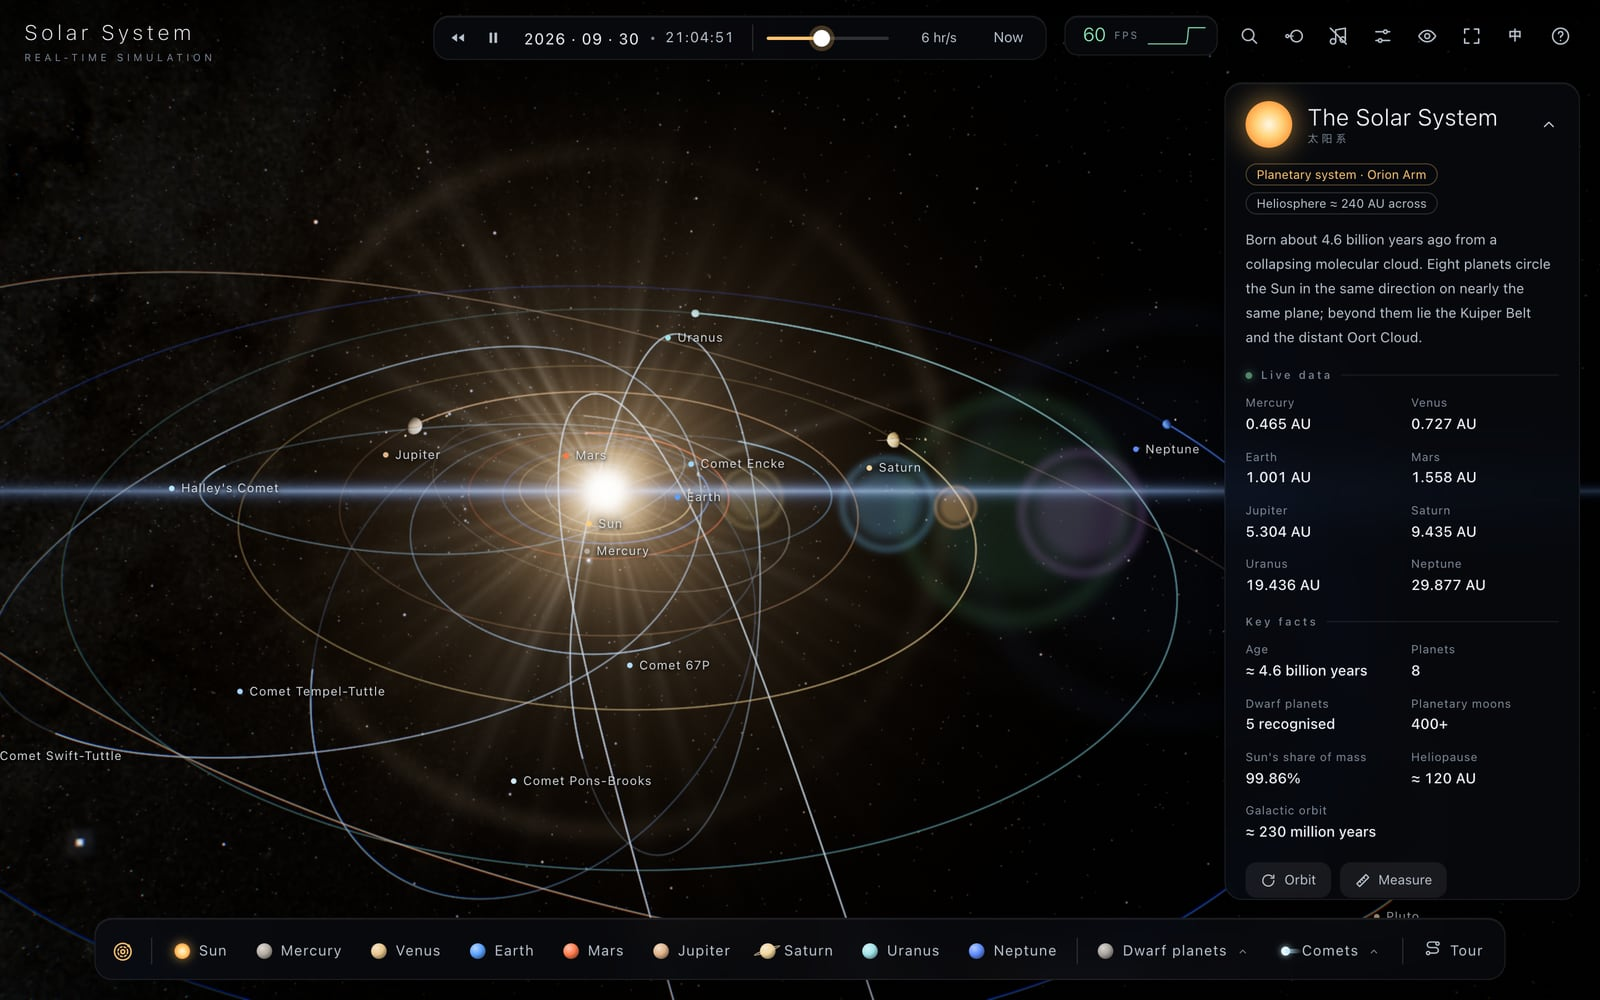
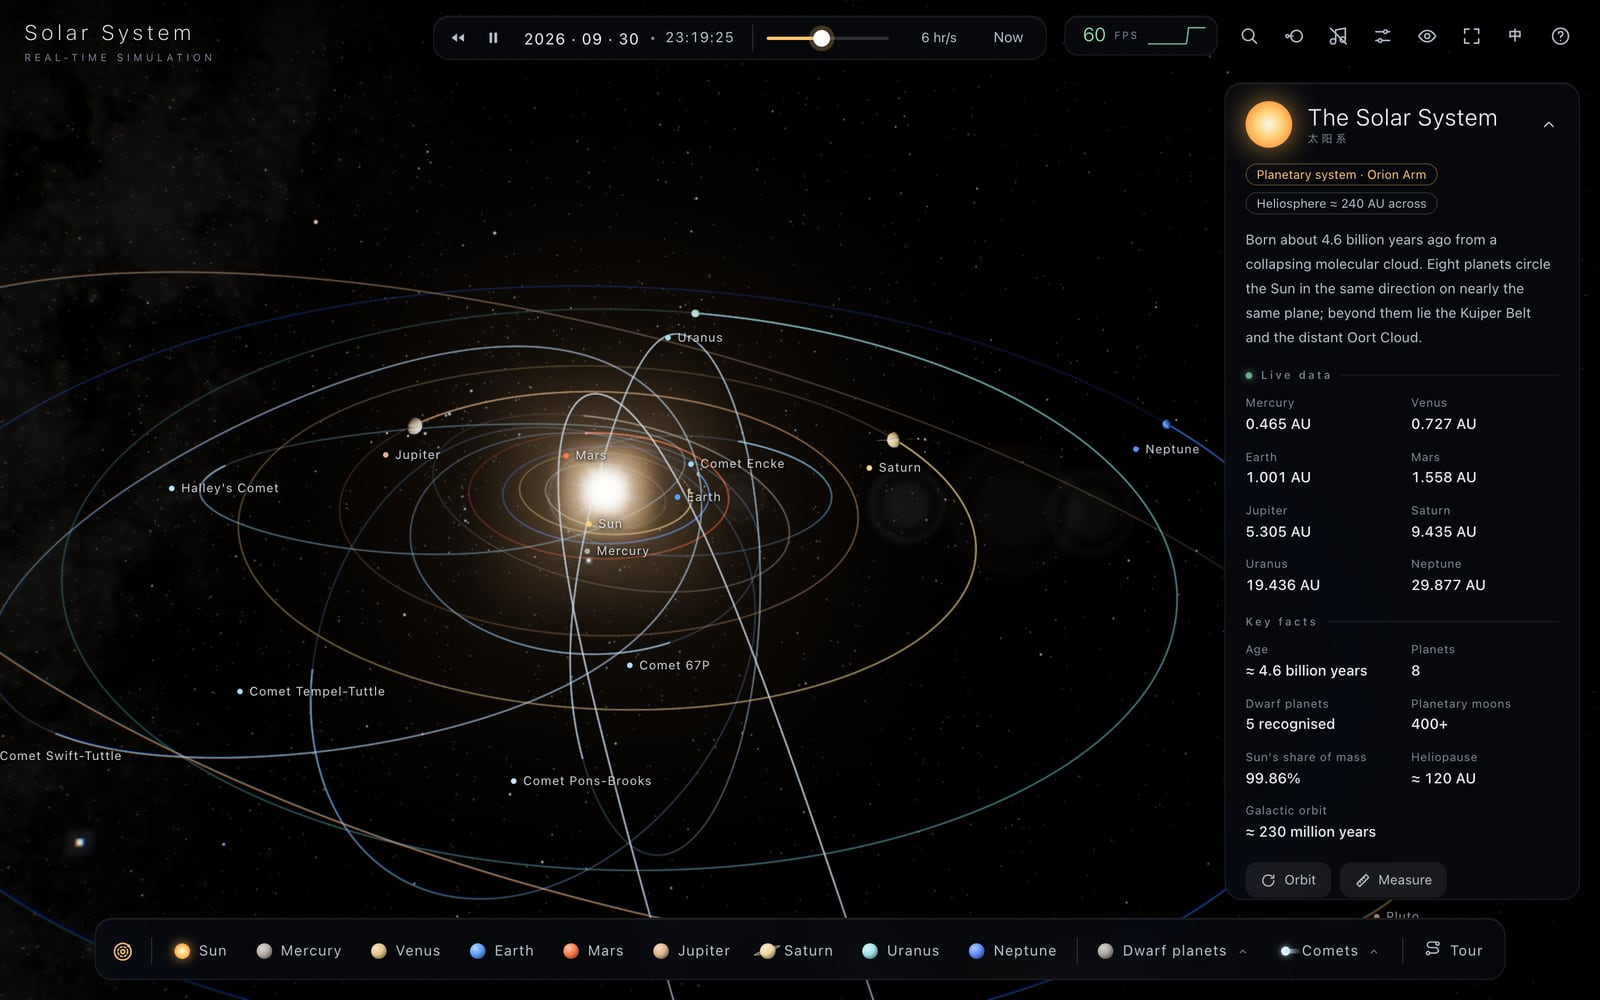
银河去颗粒（7×7 中值，0.9 MB）并加暗部趾部曲线与亮度滑块；镜头光晕去掉横向光条、噪声尖刺与大光圈，改为淡鬼影加平滑眩光；体积光只在太阳被遮挡时满强度

diff --git a/src/shaders.js b/src/shaders.js
@@ -499,8 +499,9 @@ vec3 e=vec3(p.x,-p.z,p.y);const float eps=.40909280;
 vec3 q=vec3(e.x,e.y*cos(eps)-e.z*sin(eps),e.y*sin(eps)+e.z*cos(eps));
 vec2 uv=vec2(fract(.5-atan(q.y,q.x)/6.2831853),.5+asin(clamp(q.z,-1.,1.))/3.14159265);
 vec3 c=textureLod(uSky,uv,0.).rgb;c=c*c*c*.25;
-// 黑点：减去弥漫的暗弱背景（约为全天中位亮度），深空回到纯黑，银河本身略提亮
-gl_FragColor=vec4(max(c-.0024,0.)*1.35*uGain,1.);}`;
+// 暗部趾部：全天中位亮度（约 0.0027）附近的弥漫薄雾平滑淡出到黑，否则远离银道的灰褐色斑驳显得脏；银河本身保留
+c*=smoothstep(.0022,.012,dot(c,vec3(.2126,.7152,.0722)));
+gl_FragColor=vec4(c*1.2*uGain,1.);}`;
 
 export const STAR_VERT = /* glsl */ `
 attribute float aI;attribute vec3 aColor;uniform float uPR,uGain;varying vec3 vCol;
@@ -589,18 +590,19 @@ const mat3 OM=mat3(1.60475,-.10208,-.00327,-.53108,1.10813,-.07276,-.07367,-.006
 // 场景 + 泛光（半分辨率泛光纹理线性采样，rgb·a 即原先加法混合的结果）
 vec3 src(vec2 uv){vec4 b=texture(tBloom,uv);return texture(tDiffuse,uv).rgb+b.rgb*(b.a*uBloom);}
 vec3 aces(vec3 v){v=IM*v;vec3 a=v*(v+.0245786)-.000090537,b=v*(.983729*v+.432951)+.238081;return clamp(OM*(a/b),0.,1.);}
+// 镜头光晕：只保留真实镜头里常见且克制的部分
+// · 鬼影：镜片间内反射，沿太阳—画面中心连线分布，小、淡、偏中性色
+// · 眩光：镜头内散射形成的平滑光晕（近似洛伦兹型点扩散函数），没有放射尖刺
+// 此前的横向蓝色光条（模仿变形宽银幕镜头）、噪声放射线与大光圈都显得假，已去掉
 vec3 flare(vec2 uv){
   vec2 as=vec2(uAspect,1.),p=(uv-.5)*as,s=(uSun-.5)*as;
   vec3 c=vec3(0.);
-  vec3 G[6]=vec3[](vec3(.45,.045,.5),vec3(.8,.02,.8),vec3(1.1,.11,.14),vec3(1.45,.06,.3),vec3(-.25,.03,.35),vec3(1.9,.2,.07));
-  vec3 GC[6]=vec3[](vec3(.3,.7,1.),vec3(1.,.55,.25),vec3(.4,1.,.55),vec3(.75,.45,1.),vec3(1.,.85,.4),vec3(.35,.55,1.));
-  for(int i=0;i<6;i++){float d=length(p+s*G[i].x);float r=G[i].y;
-    c+=GC[i]*G[i].z*.6*(ss(r,r*.55,d)*.5+exp(-sq((d-r)/(r*.1)))*.5);}
-  vec2 ds=p-s;float rr=length(ds),ang=atan(ds.y,ds.x);
-  c+=vec3(1.,.8,.6)*exp(-sq((rr-.34)/.012))*.035*(.6+.4*sin(ang*3.+1.));
-  c+=vec3(.4,.6,1.)*exp(-abs(ds.y)*260.)*exp(-abs(ds.x)*1.6)*1.1;
-  float burst=snoise(vec3(ang*9.,0.,uTime*.05))*.5+.5;
-  c+=vec3(1.,.9,.75)*exp(-rr*9.)*(.25+.75*pow(max(burst,0.),3.))*.5;
+  vec3 G[4]=vec3[](vec3(.55,.035,.16),vec3(1.1,.06,.09),vec3(1.5,.04,.11),vec3(-.3,.022,.12));
+  vec3 GC[4]=vec3[](vec3(.75,.85,1.),vec3(1.,.9,.75),vec3(.8,1.,.9),vec3(.9,.85,1.));
+  for(int i=0;i<4;i++){float d=length(p+s*G[i].x);float r=G[i].y;
+    c+=GC[i]*G[i].z*.35*(ss(r,r*.4,d)*.6+exp(-sq((d-r)/(r*.15)))*.4);}
+  float rr=length(p-s);
+  c+=vec3(1.,.92,.82)*(.05/(1.+sq(rr/.018))+.03*exp(-rr*5.));
   return c;
 }
 void main(){

diff --git a/src/main.js b/src/main.js
@@ -78,7 +78,7 @@ function moonGeo(d, o) {
 const DEFAULT = matchMedia('(pointer: coarse)').matches ? 'medium' : 'high';
 let settings;
 try { settings = JSON.parse(localStorage.getItem('solar.settings')); } catch { settings = null; }
-settings = { preset: DEFAULT, ...PRESETS[DEFAULT], exposure: 1, orbits: true, labels: true, belt: true, music: true, volume: 0.6, adaptive: true, sfx: true, autohide: true, idleTour: true, constellations: false, realScale: false, ...settings };
+settings = { preset: DEFAULT, ...PRESETS[DEFAULT], exposure: 1, orbits: true, labels: true, belt: true, music: true, volume: 0.6, adaptive: true, sfx: true, autohide: true, idleTour: true, constellations: false, realScale: false, milky: 1, ...settings };
 const saveSettings = () => localStorage.setItem('solar.settings', JSON.stringify(settings));
 
 // ================================================================ 渲染器
@@ -938,7 +938,10 @@ function updateSunFx(dt) {
   // 太阳在镜头后方时投影点会镜像到画面内，必须关掉；离画面较远时贡献也可忽略，整个跳过以省下三次全屏渲染
   const inFront = camDir.dot(tmp2.copy(camera.position).negate()) > 0;
   const nearView = inFront ? 1 - smooth(1.2, 2.2, Math.max(Math.abs(p.x), Math.abs(p.y))) : 0;
-  u.uRays.value = settings.rays ? 0.9 * (1 - smooth(0.25, 0.8, frac)) * nearView : 0;
+  // 体积光（屏幕空间径向模糊）是电影化手法：太阳被天体部分或完全遮住、光从边缘漏出时才有意义，此时满强度；
+  // 太阳完全可见时只留一点；太阳小到只有几个像素时关掉，否则会从单个亮像素拉出一圈放射尖刺
+  const hidden = smooth(0.03, 0.3, 1 - sunVis);
+  u.uRays.value = settings.rays ? 0.9 * (0.2 + 0.8 * hidden) * smooth(0.003, 0.015, frac) * (1 - smooth(0.25, 0.8, frac)) * nearView : 0;
   raysPass.enabled = u.uRays.value > 0.002;
   // 靠近太阳时像真实相机一样压低曝光，才能看清米粒组织与黑子
   const close = smooth(0.1, 0.4, frac) * onScreen;
@@ -947,6 +950,7 @@ function updateSunFx(dt) {
   bloomPass.strength = 0.6 * (1 - 0.55 * close);
   exposure += (target - exposure) * Math.min(1, dt * 2.5);
   u.uExposure.value = exposure * settings.exposure;
+  sky.material.uniforms.uGain.value = settings.milky;
 }
 
 // ================================================================ 相机：跟随、飞行、漫游

diff --git a/src/index.html b/src/index.html
@@ -425,6 +425,7 @@ html[lang=en] .ld-t{letter-spacing:.3em;margin-right:-.3em}
       <div class="group"><h4>场景</h4>
         <div class="row"><span>轨道线</span><label class="sw-t"><input type="checkbox" data-k="orbits" aria-label="轨道线"><i></i></label></div>
         <div class="row"><span>真实比例<small>天体大小与距离按同一比例；关闭时放大天体、压缩距离</small></span><label class="sw-t"><input type="checkbox" data-k="realScale" aria-label="真实比例"><i></i></label></div>
+        <div class="row"><span>银河亮度</span><div class="ctl"><input type="range" id="sMilky" min="0" max="2" step="0.05" aria-label="银河亮度"><em id="vMilky"></em></div></div>
         <div class="row"><span>星座连线<small>88 个星座的连线与名称</small></span><label class="sw-t"><input type="checkbox" data-k="constellations" aria-label="星座连线"><i></i></label></div>
         <div class="row"><span>天体标签</span><label class="sw-t"><input type="checkbox" data-k="labels" aria-label="天体标签"><i></i></label></div>
         <div class="row"><span>小行星带</span><label class="sw-t"><input type="checkbox" data-k="belt" aria-label="小行星带"><i></i></label></div>

diff --git a/src/ui.js b/src/ui.js
@@ -269,6 +269,7 @@ export function createUI(app) {
   $('sTex').onchange = (e) => app.setSetting({ tex: +e.target.value });
   $('sMsaa').onchange = (e) => app.setSetting({ msaa: +e.target.value });
   $('sExposure').oninput = (e) => app.setSetting({ exposure: +e.target.value }, false);
+  $('sMilky').oninput = (e) => app.setSetting({ milky: +e.target.value }, false);
   $('sVolume').oninput = (e) => app.setSetting({ volume: +e.target.value }, false);
   drawer.querySelectorAll('[data-k]').forEach((el) => (el.onchange = () => {
     const k = el.dataset.k;
@@ -286,6 +287,8 @@ export function createUI(app) {
     $('sMsaa').value = settings.msaa;
     $('sExposure').value = settings.exposure;
     $('vExposure').textContent = settings.exposure.toFixed(2);
+    $('sMilky').value = settings.milky;
+    $('vMilky').textContent = `${Math.round(settings.milky * 100)}%`;
     $('sVolume').value = settings.volume;
     $('vVolume').textContent = `${Math.round(settings.volume * 100)}%`;
     drawer.querySelectorAll('input[type=range]').forEach(fill);

diff --git a/src/i18n.js b/src/i18n.js
@@ -127,5 +127,6 @@ const EN = {
   '真实比例（P）': 'True scale (P)', '真实比例': 'True scale', '天体大小与距离按同一比例；关闭时放大天体、压缩距离': 'Sizes and distances on one scale; when off, bodies are enlarged and distances compressed',
   '真实比例：天体大小与距离按同一比例，行星小到看不见，靠标签定位': 'True scale: sizes and distances share one scale — planets shrink to specks, so labels mark where they are',
   '展示比例：放大天体、压缩距离，便于观看': 'Display scale: bodies enlarged and distances compressed for easy viewing',
+  '银河亮度': 'Milky Way brightness',
   '星座连线': 'Constellations', '88 个星座的连线与名称': 'Lines and names of the 88 constellations', '星座连线已开启': 'Constellations on', '星座连线已关闭': 'Constellations off', '正在生成行星表面': 'Generating planet surfaces', '正在载入星表与地图数据': 'Loading star catalogue and map data',
 };

diff --git a/README.en.md b/README.en.md
@@ -4,7 +4,7 @@
 
 **Live demo: <https://anrlm.github.io/solar-system/>**
 
-A cinematic, real-time Solar System in your browser. Positions come from real orbital elements; lighting, eclipses and comet tails follow the physics; the soundtrack is synthesised live. The whole thing is a single ~13 MB HTML file that also works offline.
+A cinematic, real-time Solar System in your browser. Positions come from real orbital elements; lighting, eclipses and comet tails follow the physics; the soundtrack is synthesised live. The whole thing is a single ~11 MB HTML file that also works offline.
 
 ![Overview](docs/hero-en.jpg)
 

diff --git a/README.md b/README.md
@@ -4,7 +4,7 @@
 
 **在线体验：<https://anrlm.github.io/solar-system/>**
 
-在浏览器里实时运行的电影级太阳系。天体位置按真实轨道根数计算，光影、日月食、彗尾都按物理规律呈现；配乐由浏览器现场合成；整个页面是一个约 13 MB、可离线打开的 HTML 文件。
+在浏览器里实时运行的电影级太阳系。天体位置按真实轨道根数计算，光影、日月食、彗尾都按物理规律呈现；配乐由浏览器现场合成；整个页面是一个约 11 MB、可离线打开的 HTML 文件。
 
 ![全景](docs/hero.jpg)
 
